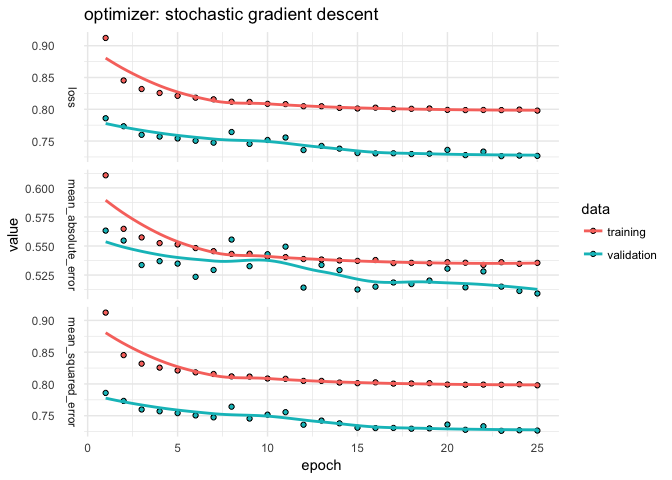
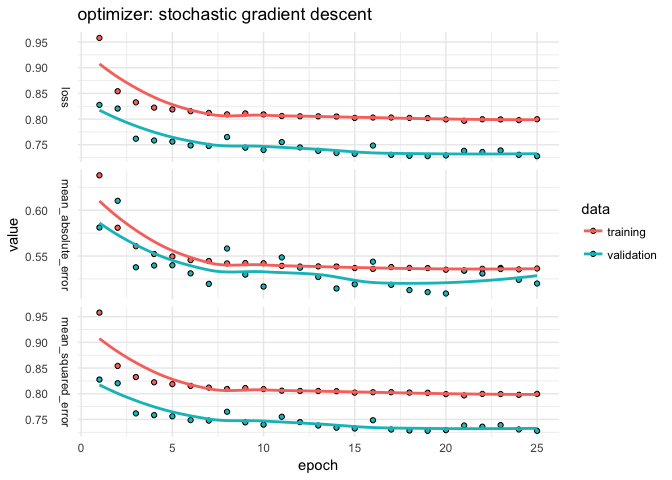
fit with keras + absolute loss

diff --git a/examples/prelim_tests.md b/examples/prelim_tests.md
@@ -218,19 +218,52 @@ score <- evaluate(keras_model_seq, x_test, z_test)
 loss <- cbind(loss, c(score$mean_absolute_error*sd(pe$wageinc[trnidxs]), score$mean_squared_error*var(pe$wageinc[trnidxs])))
 colnames(loss)[6] <- "keras_sgd"
 
+
+keras_model_seq <- keras_model_sequential()
+keras_model_seq %>% layer_dense(units = c(P), input_shape = c(P)) %>%
+  layer_activation("linear") %>% layer_dense(1)
+
+keras_model_seq %>% compile(
+  loss = loss_mean_absolute_error,
+  optimizer = optimizer_sgd(),
+  metrics = c("mean_absolute_error", "mean_squared_error")
+)
+
+history_mae <- keras_model_seq %>% fit(x_train, z_train,
+                                   epochs = 25,
+                                   batch_size = 32,
+                                   validation_split = 0.2)
+
+plot(history_mae) + theme_minimal() + ggtitle("optimizer: stochastic gradient descent (with mean abs loss)")
+```
+
+![](prelim_tests_files/figure-markdown_github-ascii_identifiers/unnamed-chunk-3-2.png)
+
+``` r
+score <- evaluate(keras_model_seq, x_test, z_test)
+
+loss <- cbind(loss, c(score$mean_absolute_error*sd(pe$wageinc[trnidxs]), score$mean_squared_error*var(pe$wageinc[trnidxs])))
+colnames(loss)[7] <- "keras_sgd_abs_loss"
+
+
+
+
+
+
+
 round(loss, 0)
 ```
 
                              nnet         lm       plm2        pl3 keras_adam
-    Mean Abs Error          24787      25786      25239      24882      25945
-    Mean Squared Error 1787254456 1852735427 1802438648 1788490321 1877684194
-                        keras_sgd
-    Mean Abs Error          25444
-    Mean Squared Error 1870422830
+    Mean Abs Error          24787      25786      25239      24882      26276
+    Mean Squared Error 1787254456 1852735427 1802438648 1788490321 1883809432
+                        keras_sgd keras_sgd_abs_loss
+    Mean Abs Error          25886              25397
+    Mean Squared Error 1857275265         1883960800
 
 ``` r
 # MSE and mean absolute error the same in same order?
 cor(loss[1,], loss[2,], method = "spearman")
 ```
 
-    [1] 0.9428571
+    [1] 0.7857143
